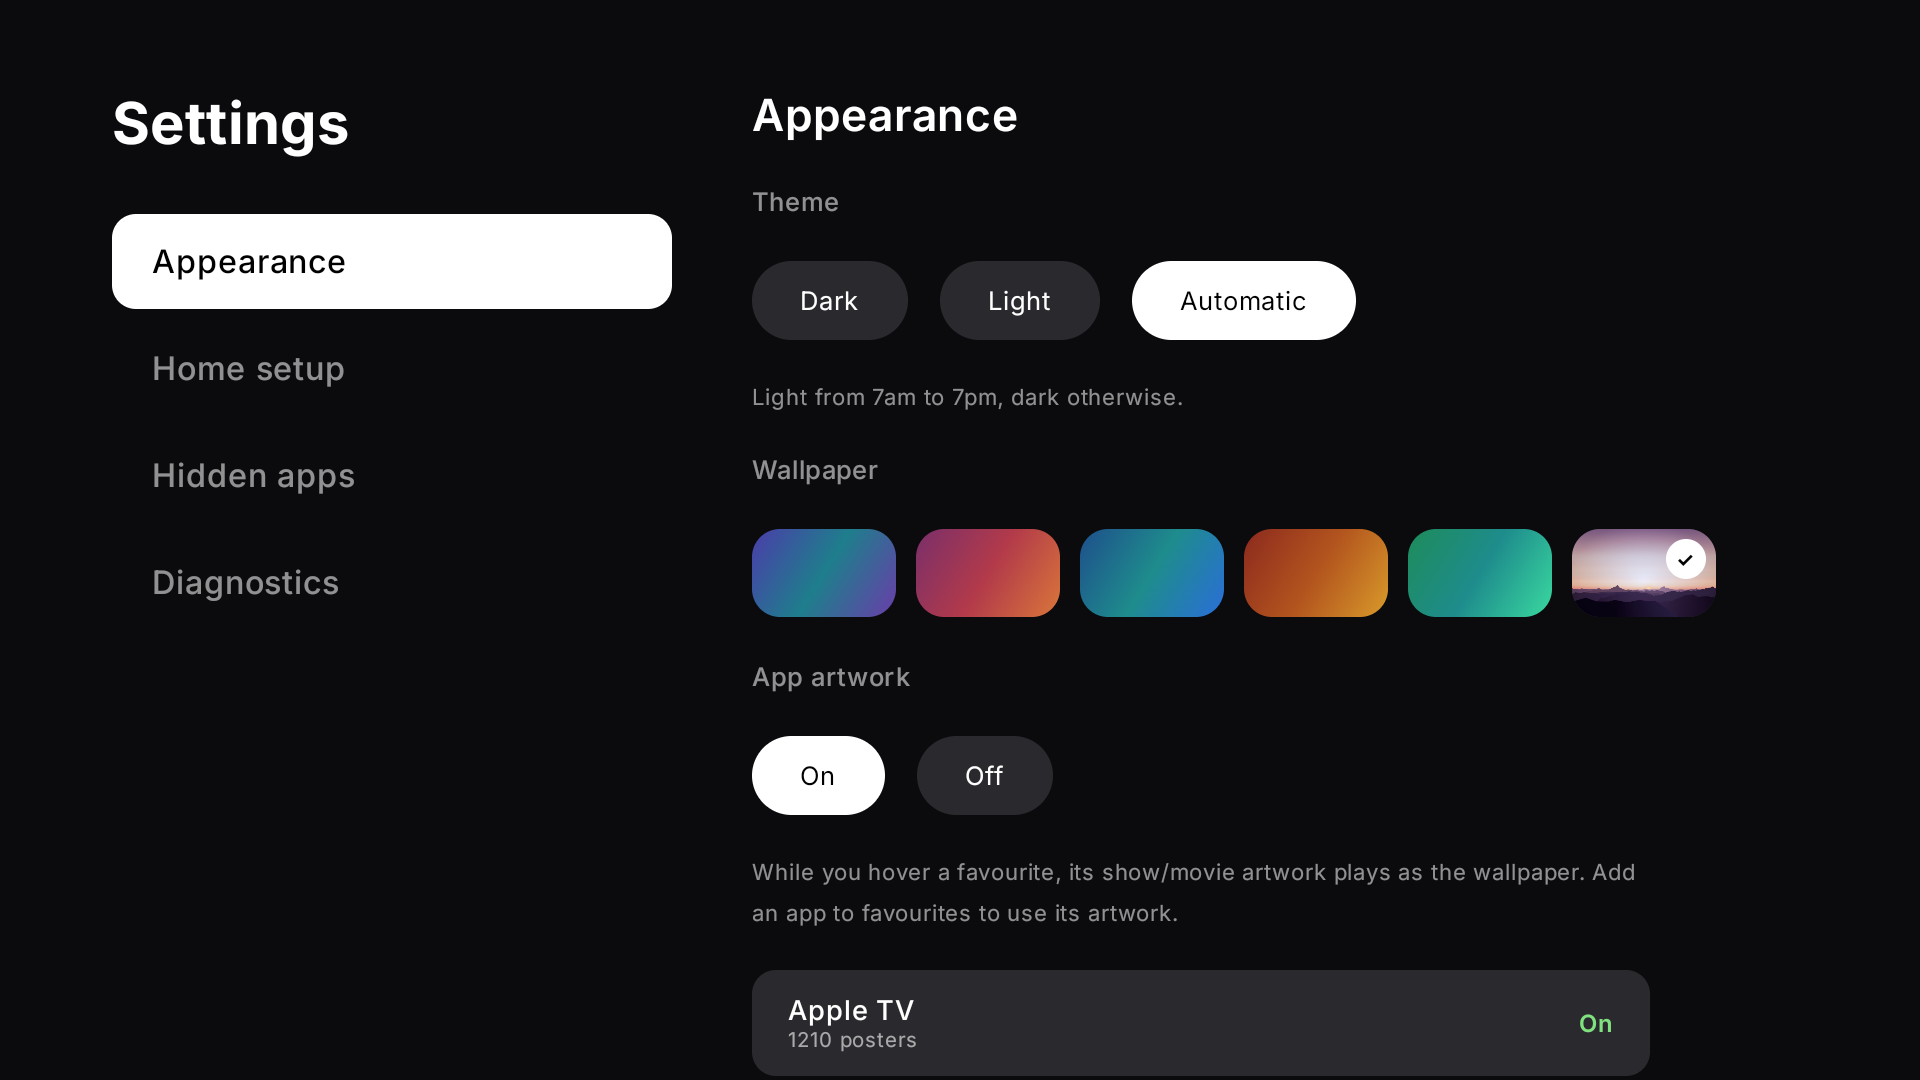
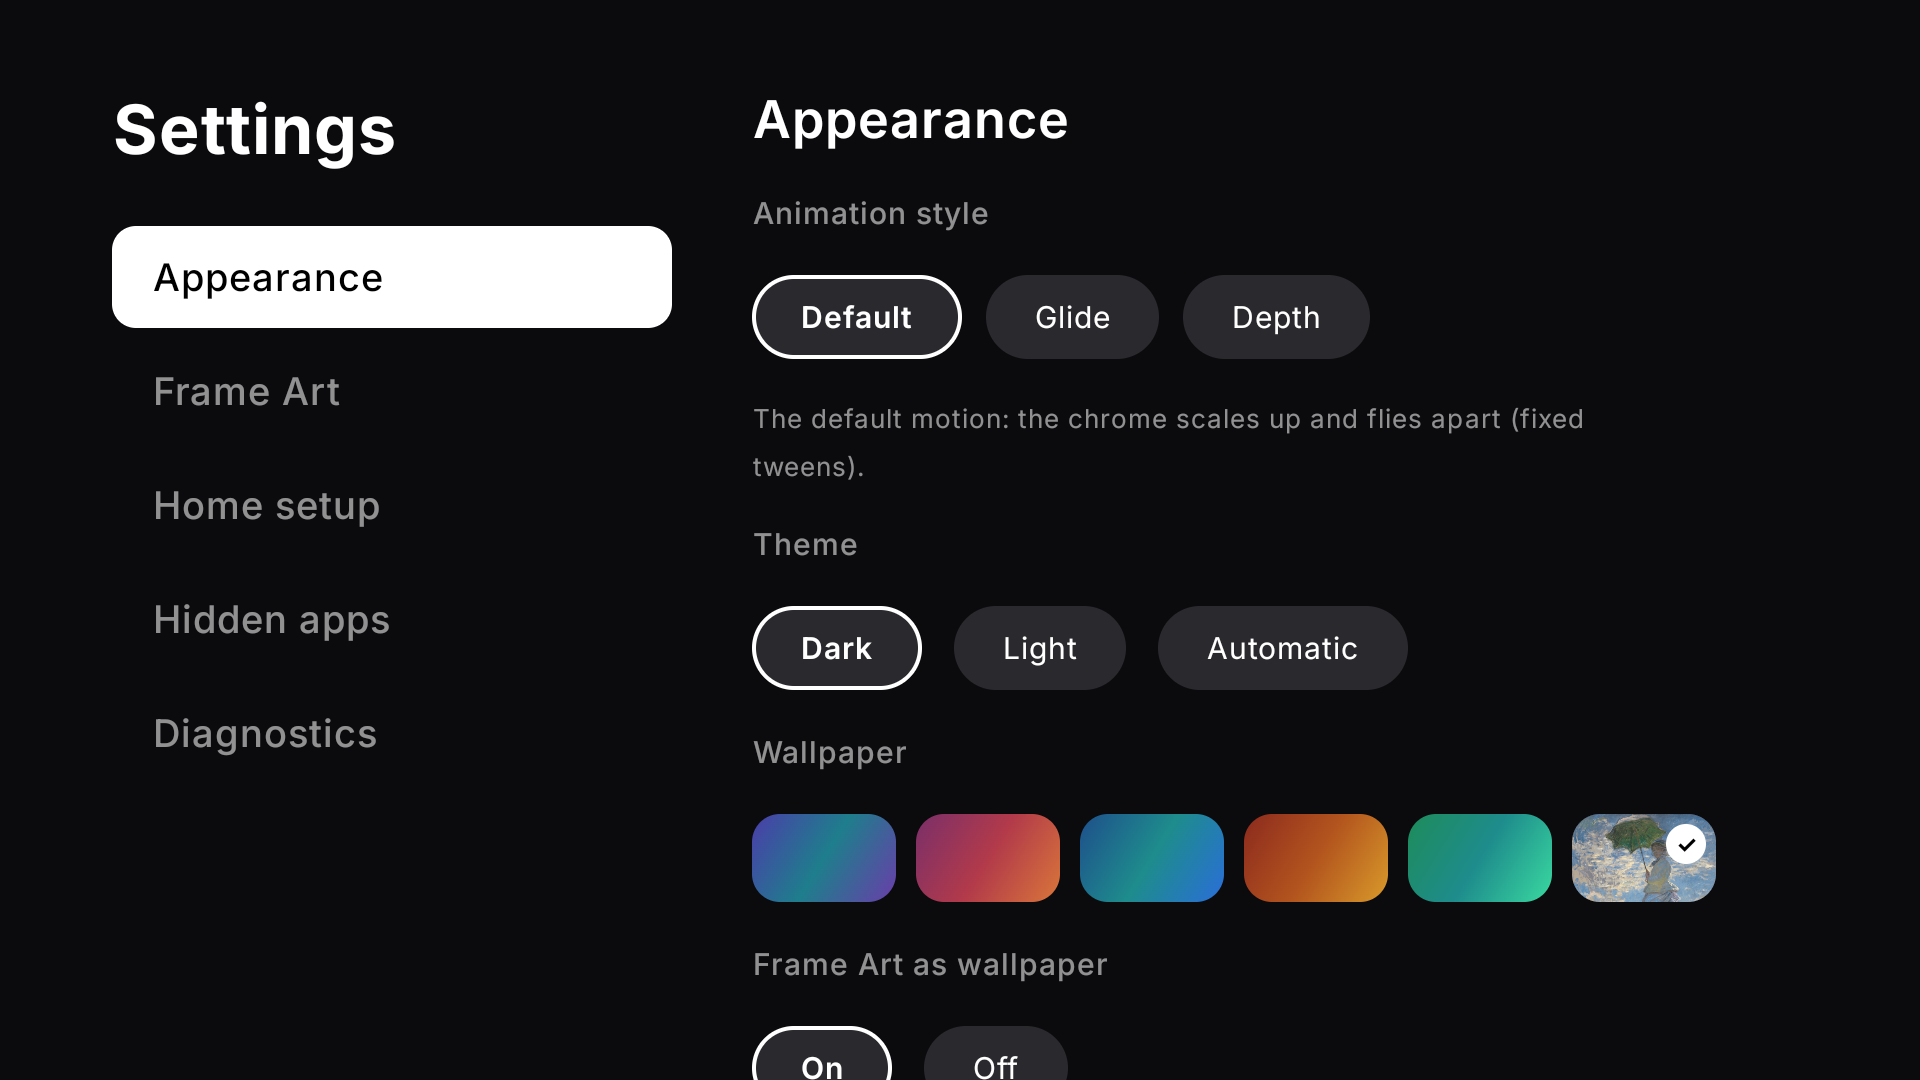
Refresh README: document Frame Art + animation styles, update screenshots
- New/refreshed screenshots (captured on the TV emulator, v0.2.4): home
  hero, app grid, Settings → Appearance (with the Animation style switch),
  and a new Frame Art full-screen shot.
- Feature Frame Art (folder slideshow, ←/→ paging, floating clock,
  idle auto-start) and the Default/Glide/Depth animation styles.
- Fix stale claims: drop the ambient glow, wallpaper blur and animated
  drift; note Liquid Glass is optional (off by default); replace the old
  Ken-Burns "idle screensaver" line with Frame Art auto-start.

diff --git a/README.md b/README.md
@@ -11,7 +11,7 @@ Full‑bleed artwork, liquid‑glass chrome, and a dock that gets out of your wa
 ![Platform](https://img.shields.io/badge/Android%20TV%20%C2%B7%20Google%20TV-3DDC84?logo=android&logoColor=white)
 ![Min SDK](https://img.shields.io/badge/min%20SDK-28-orange)
 
-<img src="demo/ss/02-app-artwork.png" width="100%" alt="Tarang home screen with app artwork as the wallpaper" />
+<img src="demo/ss/01-home.png" width="100%" alt="Tarang home screen — full-bleed Frame Art wallpaper and a frosted dock" />
 
 </div>
 
@@ -20,8 +20,10 @@ Full‑bleed artwork, liquid‑glass chrome, and a dock that gets out of your wa
 ## ✨ Highlights
 
 - **A home that disappears.** At rest you see only the wallpaper and a frosted dock pinned to the bottom. Press **down** and your full app grid slides up — Apple‑TV style.
-- **Living wallpapers.** Hover a favorite and its show/movie poster plays full‑screen as the background, with a soft ambient glow tuned to whatever you're pointing at.
-- **Real Liquid Glass.** The clock, status pills, and dock refract the wallpaper through their edges via an AGSL shader (Android 13+), over a true frosted blur.
+- **Frame Art.** Turn the TV into a framed painting — a folder slideshow or a single photo, full‑bleed with an elegant floating clock. Press **←/→** to flip through pictures; it can start itself after an idle timeout.
+- **Living wallpapers.** Hover a favorite and its show/movie poster plays full‑screen as the background.
+- **Choose your motion.** Pick how transitions feel — a calm **Default**, fluid **Glide** springs, or **Depth**, where the home recedes into a painting and dives into an app.
+- **Real Liquid Glass.** The clock, status pills, and dock can refract the wallpaper through their edges via an AGSL shader (Android 13+) over a frosted blur — an optional toggle, off by default to stay light on weak TV GPUs.
 - **Made for the remote.** Every interaction is D‑pad‑first — snappy focus, long‑press menus, no touch required.
 - **Actually replaceable.** A guided **Home setup** flow gets Tarang running as your TV's home screen, even on Google TV where the system blocks setting a third‑party launcher.
 
@@ -31,15 +33,15 @@ Full‑bleed artwork, liquid‑glass chrome, and a dock that gets out of your wa
 
 <table>
   <tr>
-    <td width="50%"><img src="demo/ss/01-home.png" alt="Home screen" /><br/><sub><b>Home</b> — frosted dock, full‑bleed wallpaper, nothing else in the way.</sub></td>
+    <td width="50%"><img src="demo/ss/07-frame-art.png" alt="Frame Art" /><br/><sub><b>Frame Art</b> — the TV as a framed painting, with a floating clock. Press ←/→ to flip photos.</sub></td>
+    <td width="50%"><img src="demo/ss/03-grid.png" alt="App grid" /><br/><sub><b>App grid</b> — press down to reveal every installed app.</sub></td>
+  </tr>
+  <tr>
+    <td width="50%"><img src="demo/ss/05-settings.png" alt="Settings — Appearance" /><br/><sub><b>Settings</b> — animation style, theme, wallpapers, grid density.</sub></td>
     <td width="50%"><img src="demo/ss/02b-app-artwork.png" alt="App artwork wallpaper" /><br/><sub><b>App artwork</b> — the focused favorite's poster becomes the wallpaper.</sub></td>
   </tr>
   <tr>
-    <td width="50%"><img src="demo/ss/03-grid.png" alt="App grid" /><br/><sub><b>App grid</b> — press down to reveal every installed app.</sub></td>
     <td width="50%"><img src="demo/ss/04-context-menu.png" alt="Long-press menu" /><br/><sub><b>Long‑press menu</b> — favorite, hide, app info, uninstall.</sub></td>
-  </tr>
-  <tr>
-    <td width="50%"><img src="demo/ss/05-settings.png" alt="Settings — Appearance" /><br/><sub><b>Settings</b> — theme, wallpapers, grid density, app artwork.</sub></td>
     <td width="50%"><img src="demo/ss/06-home-setup.png" alt="Settings — Home setup" /><br/><sub><b>Home setup</b> — live checks + deep‑links to become the default Home.</sub></td>
   </tr>
 </table>
@@ -54,17 +56,23 @@ Full‑bleed artwork, liquid‑glass chrome, and a dock that gets out of your wa
 - Dock anchored to the bottom with the grid tucked below the fold, so the home screen stays calm.
 
 **Look & feel**
-- **App‑artwork wallpaper** — plays a favorite's TV poster art while it's focused (reads the system TV artwork).
-- **Wallpapers** — gradient presets, your own photo, or app artwork; animated drift, an ambient glow that picks up the focused app's color, and an optional blur.
-- **Liquid Glass** — AGSL refraction + frosted blur on the chrome (Android 13+), with a plain‑blur fallback on older devices.
+- **Wallpapers** — gradient presets, your own photo, app artwork, or your Frame Art; rendered sharp and static to stay easy on weak TV GPUs.
+- **App‑artwork wallpaper** — plays a favorite's TV poster art full‑screen while it's focused (reads the system TV artwork).
+- **Animation styles** — pick how the big transitions feel: **Default** (chrome scales up and flies apart), **Glide** (fluid springs, no blur), or **Depth** (the home recedes into a painting and dives into an app).
+- **Liquid Glass** — optional AGSL refraction + frosted blur on the chrome (Android 13+, off by default to save GPU on slower TVs), with a flat‑tint fallback everywhere else.
 - **Theme** — Light, Dark, or Automatic (follows time of day).
 - **Adjustable density** — 3 to 7 columns.
+
+**Frame Art**
+- Turn the TV into a **framed picture** — a folder slideshow, a single photo, or your current wallpaper, shown full‑bleed with no chrome.
+- **←/→ to page** through a folder's photos, with slow cross‑fades and an optional "living‑painting" drift.
+- An elegant **floating clock** (optional) with configurable position, size, and date.
+- **Auto‑start** after a configurable idle time, so it doubles as a screensaver; press any key to come back.
 
 **Daily driver**
 - **App management** from a long‑press: add/remove favorite, **Hide app**, **App info**, **Uninstall**.
 - **Hidden apps** — tuck apps out of the grid and bring them back from Settings.
-- **Idle screensaver** — a Ken‑Burns slideshow of your apps' artwork (or a clock) after a configurable timeout.
-- **Reduce motion** — calms wallpaper drift, the slideshow, and tile‑focus springs.
+- **Reduce motion** — calms Frame Art drift and slideshow, tile‑focus springs, and the app‑launch animation.
 - **Home setup** — detects whether Tarang is your default Home and whether the redirect service is on, and deep‑links you to fix each. On Google TV (which won't let an app set itself as Home) an accessibility service quietly returns you to Tarang whenever the stock launcher surfaces.
 - **Status bar** — clock & date, Wi‑Fi indicator, and quick shortcuts into Wi‑Fi / Android settings.
 